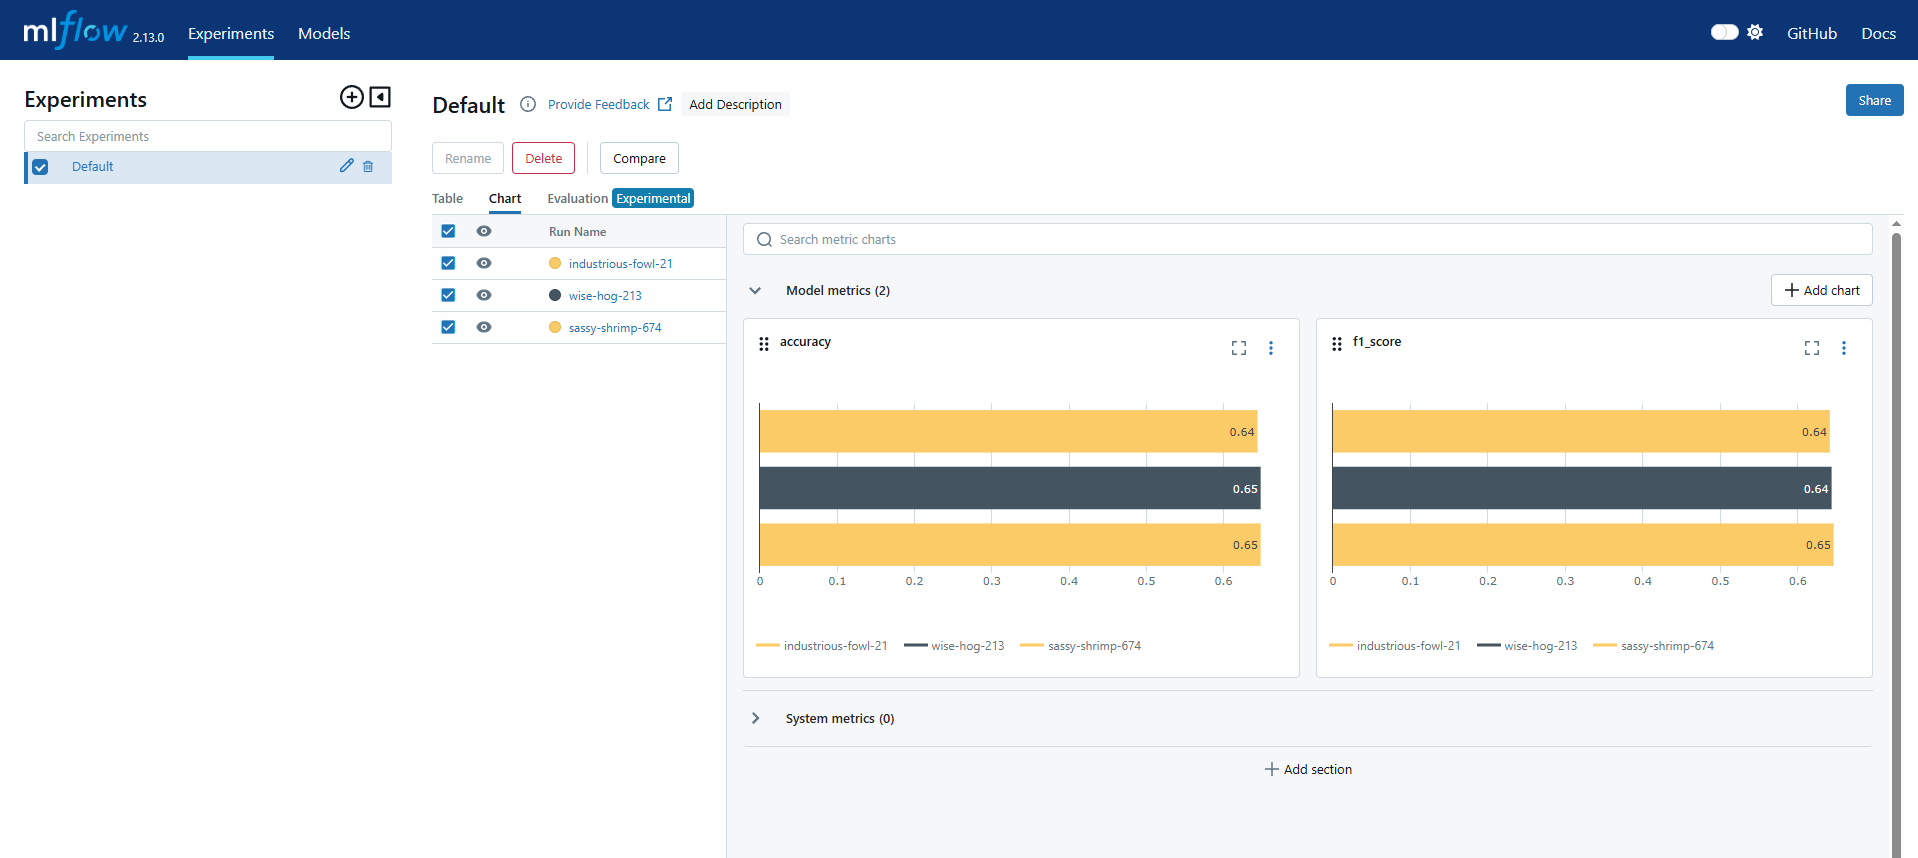
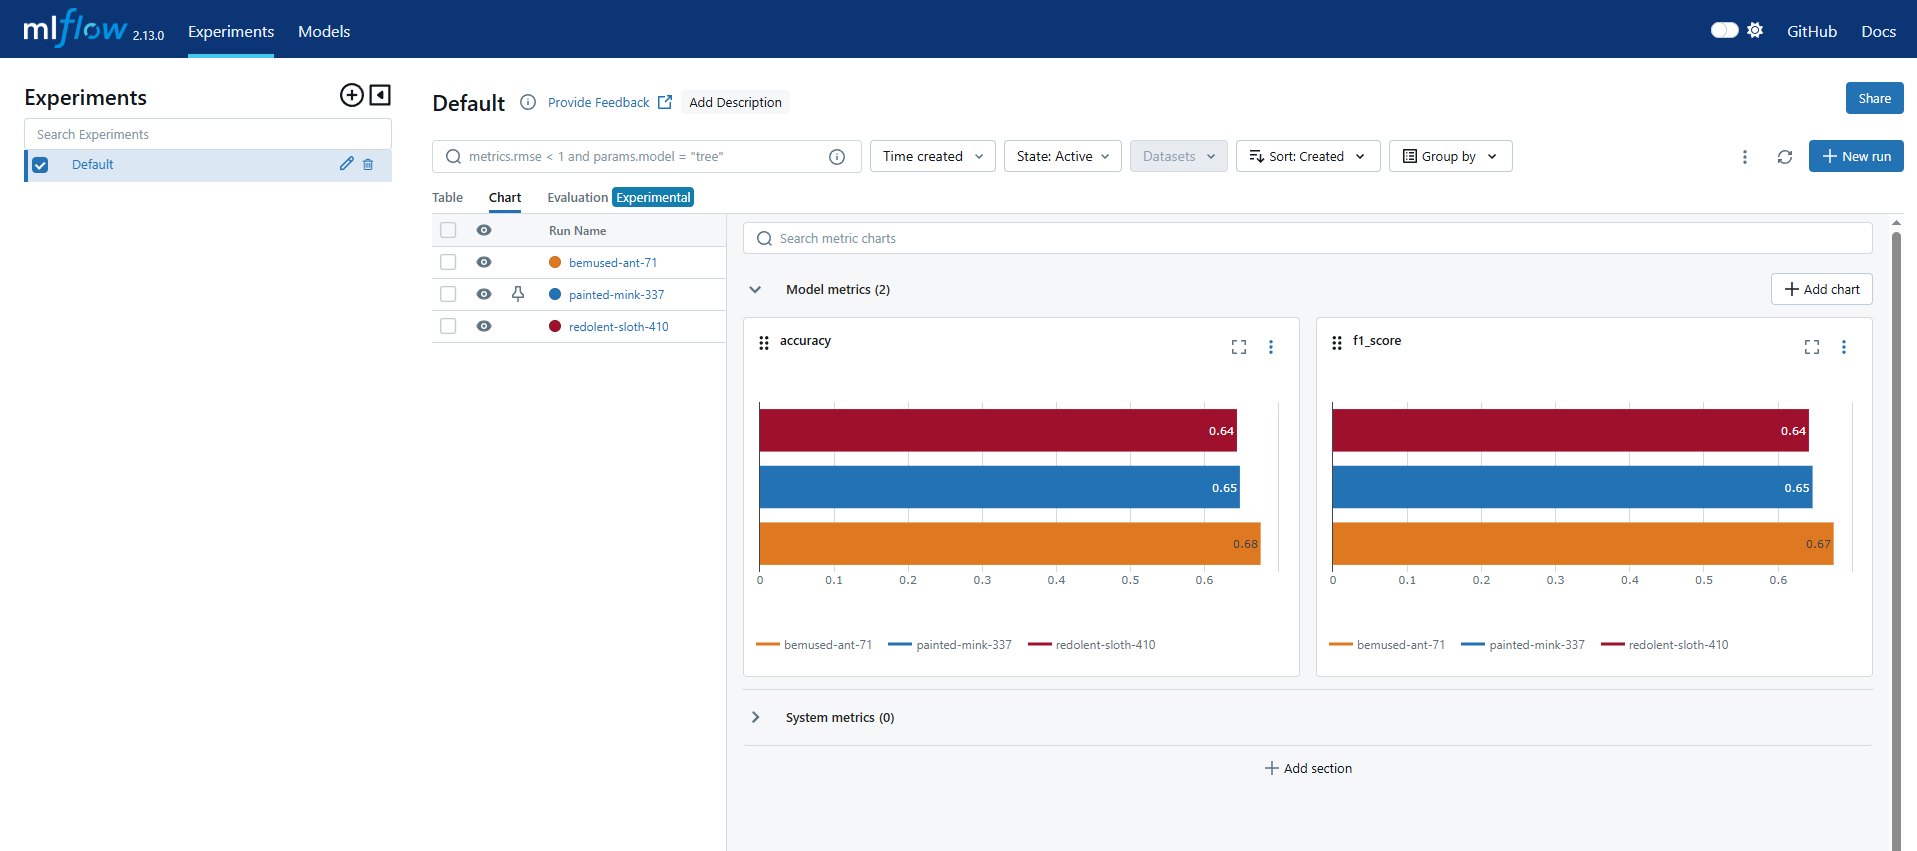
feat: complete all 5 MLOps bonuses (DagsHub, Multi-model, Auto-report, Rollback, Data-drift)

diff --git a/src/train.py b/src/train.py
@@ -8,6 +8,12 @@ import os
 from sklearn.ensemble import RandomForestClassifier
 from sklearn.metrics import accuracy_score, f1_score
 
+# Bonus 1: DagsHub Tracking Setup
+if os.getenv("DAGSHUB_TOKEN"):
+    import dagshub
+    dagshub.init(repo_owner='bachnguyen188', repo_name='Day21-Track2-CI-CD-for-AI-Systems', token=os.getenv("DAGSHUB_TOKEN"))
+    mlflow.set_tracking_uri("https://dagshub.com/bachnguyen188/Day21-Track2-CI-CD-for-AI-Systems.mlflow")
+
 EVAL_THRESHOLD = 0.70
 
 
